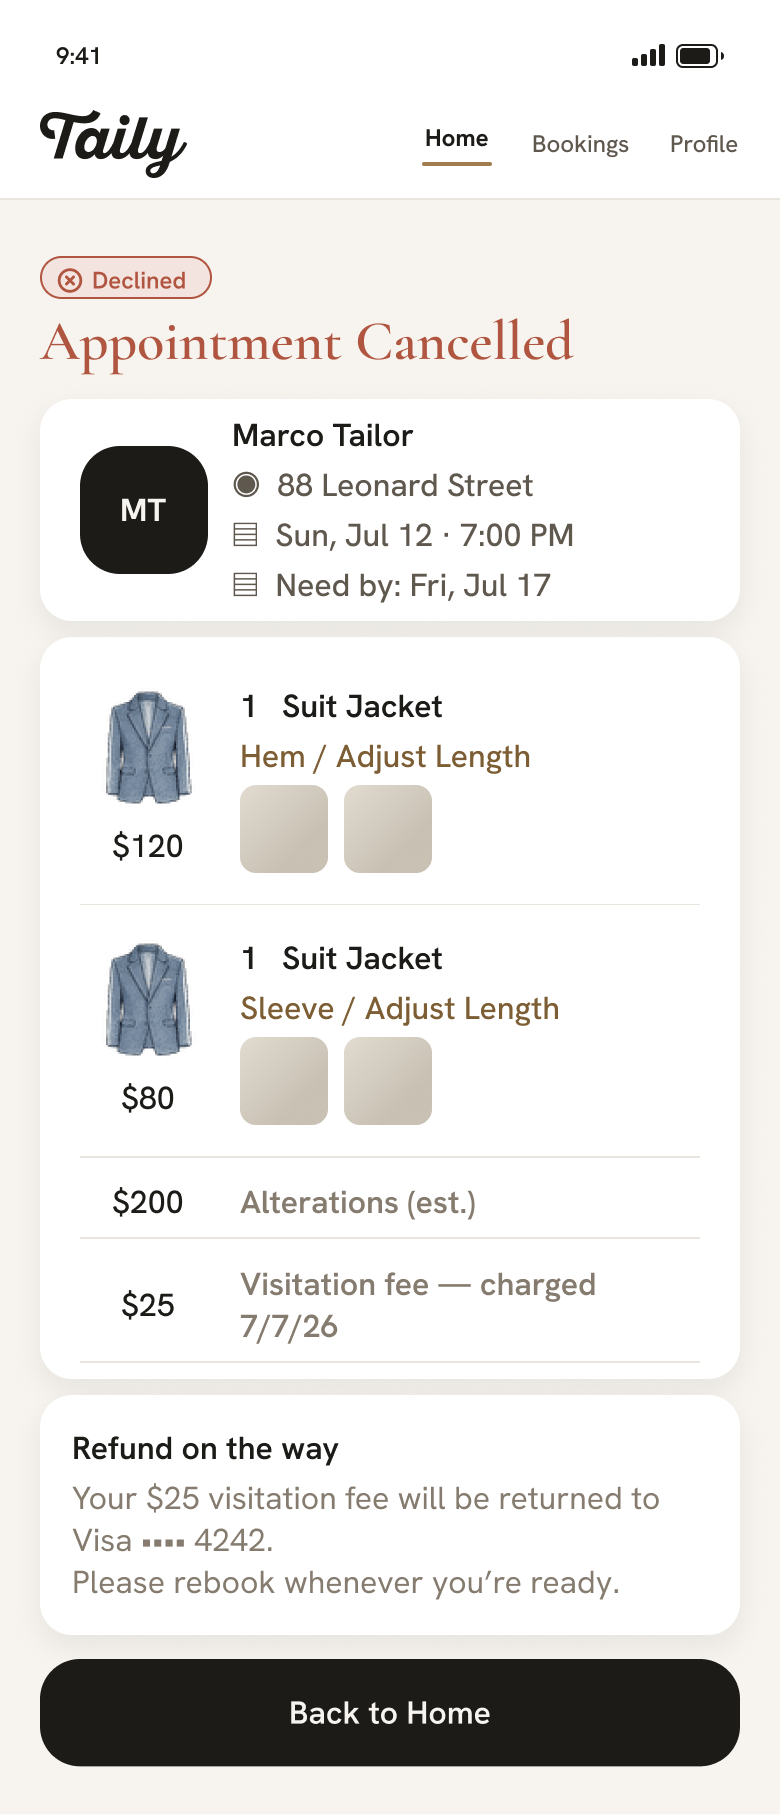
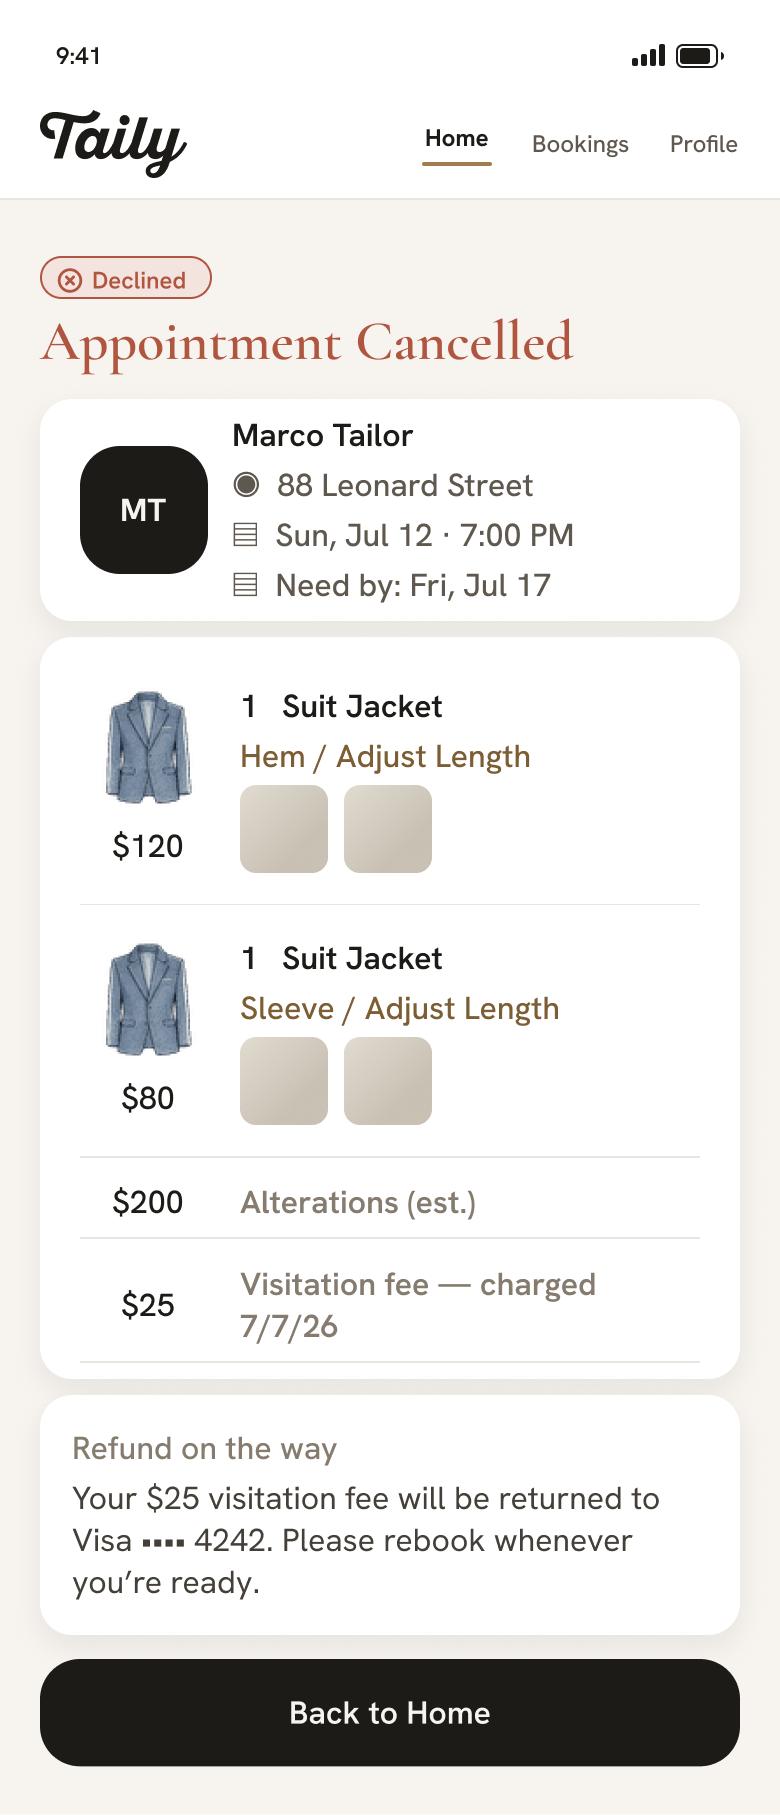
ux-loop: round 8 closed — sync verified on both flows, housekeeping applied
Both directors SIGN-OFF on the Figma money sync and the no-show compensation. Housekeeping:
04 Modified $25 painted ink; 03/Cancelled refund card weights; T06 / T06 Questions card 1 = $200
+ Sleeve (round 1 fiction retired, $120 ALLOW dropped); Status Hero Ready default + flow-chart
label lose deposit/balance wording; 11 hidden Taily-fee rows deleted; 04 re-tiered route body
gap (13.47% → 0.30%). 5 refs re-exported and accepted. npm run check ALL PASS.

Changed region(s): [[0.0923, 0.7713, 0.6154, 0.8948], [0.6462, 0.8022, 0.8, 0.8948]]

diff --git a/css/screens.css b/css/screens.css
@@ -440,6 +440,9 @@
 .screen[data-screen="04-review-approve-modified"] { min-height: 1108px; }
 /* round 3: the Removed variant shares 04/Modified's chassis */
 [data-s="04-review-approve-removed"] { padding-bottom: var(--space-24); gap: var(--space-16); }
+/* UX-LOOP round 8: the Re-tiered fixture route shares 04/Modified's chassis
+   (gap 16 under the heading, 24 bottom pad). */
+[data-s="04-review-approve-retiered"] { padding-bottom: var(--space-24); gap: var(--space-16); }
 .heading { display: flex; flex-direction: column; gap: var(--space-4); width: 100%; }
 
 /* 07 - Items Ready: inner pad 20/20/24, gap 12 */

diff --git a/UX-LOOP.md b/UX-LOOP.md
@@ -862,3 +862,21 @@ commit; verification review of the sync (both flows, parity-focused).
 - **Follow-up:** the 04 Re-tiered frame was first drawn before its route existed (three cards,
   $410) and was re-synced to the build (fourth added card `2 × Pants / Jeans · Hem · $240`, $600 /
   $25 / $25 / $650 / $625); the Confirmed / Reminder Locked pills un-clipped. Refs re-exported; baselines accepted.
+
+### Round 8 — verification and close (Sep 10 2026)
+- **User flow — SIGN-OFF** (`round8/review-user/sync-review.md`): every user-page frame reads what
+  the build renders (16 frames composited side by side, all 35 fixture routes read via REST);
+  zero old vocabulary on the user page (visible and hidden) and on every served route; the
+  Requested card renders `Review Time` on the frame and the route; nothing about tailor
+  compensation reaches the customer; the held → charged → locked → kept / refunded ladder and
+  both receipts re-driven (35/35).
+- **Tailor flow — SIGN-OFF** (`round8/review-tailor/sync-review.md`): all 15 tailor frames match
+  the build; no `Taily Fee` / `Subtotal` / `10%` / `$180` / `$324` / `deposit` / `visitation` on
+  any tailor frame or fixture; the no-show protection row reads as part of the offer without
+  exposing the fee, T03B's trip line is honest, compensation follows the tier ($20 / $25 / $50)
+  and is paid whether or not the visit was locked (121 assertions).
+- **Housekeeping after sign-off:** 04 Modified's paid $25 painted ink; 03/Cancelled refund card weights match the prepare cards; T06 / T06 Questions card 1 now $200 with the Sleeve line (the round 1 $120 fiction retired, $120 ALLOW dropped); Status Hero Ready default sentence and the flow-chart label lost their deposit/balance wording; the 11 hidden Taily-fee rows deleted; the re-tiered route's missing body gap fixed (13.47% → 0.30%). Refs re-exported, 5 baselines accepted. `npm run check` ALL CHECKS PASS — 445s.
+- **Carried for Kevin (low):** T03B no-show gives no payout timing for the trip money (needs the
+  payout cadence); "paid if Sarah doesn't show" is agentless (optional reword); 03 variant frames
+  above 844 hug their content by his rule; Leo Von's progress-bar colour differs between the T01
+  frame and the build (pre-existing, non-money).
